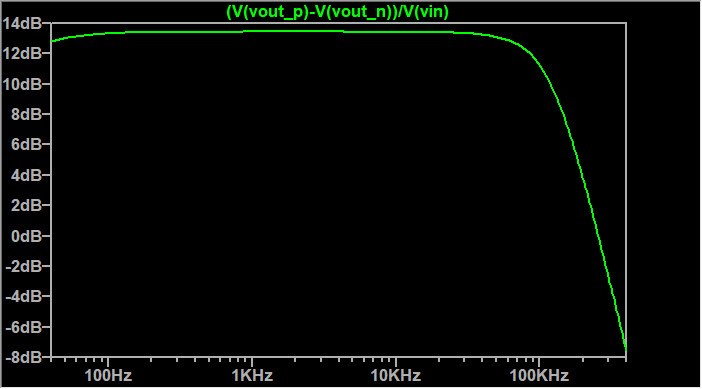
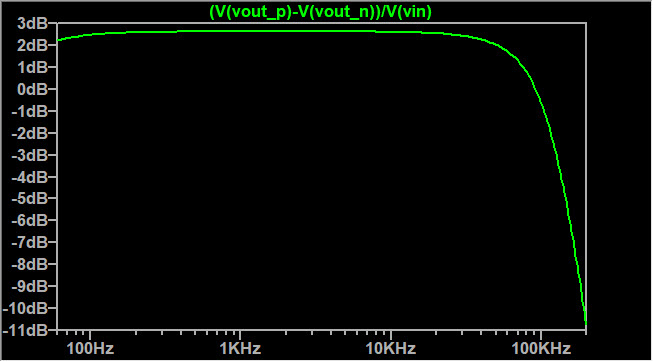
Docs

diff --git a/hw/if-2/README.md b/hw/if-2/README.md
@@ -11,11 +11,12 @@ Frequency response. We are using an ADC with a differential input so a different
 
 ![System Picture](docs/ac-in1.jpg)
 
-Frequency response focusing on the range from 40 Hz to 4 kHz:
+Frequency response focusing on the range from 60 Hz to 2 kHz. This range is important since we will
+be decoding sub-audible CTCSS tones and we want to make sure they are passed into the ADC.
 
 ![System Picture](docs/ac-in1-b.jpg)
 
-## Audio Output Stage 2
+## Audio Output Network
 
 This is the final filter in the audio output chain. A low-pass network is used to suppress noise. This is not used for pre-/de-emphasis.
 
@@ -31,6 +32,6 @@ Frequency response:
 
 ![System Picture](docs/ac-out2.jpg)
 
-Frequency response focusing on the range from 40 Hz to 4 kHz:
+Frequency response focusing on the range from 60 Hz to 2 kHz:
 
 ![System Picture](docs/ac-out2-b.jpg)
